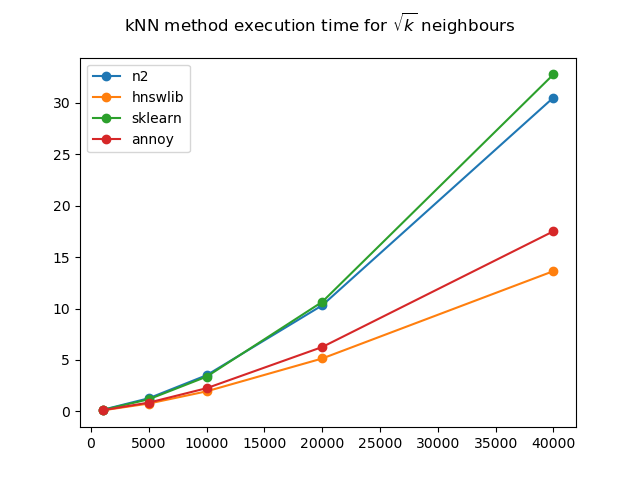
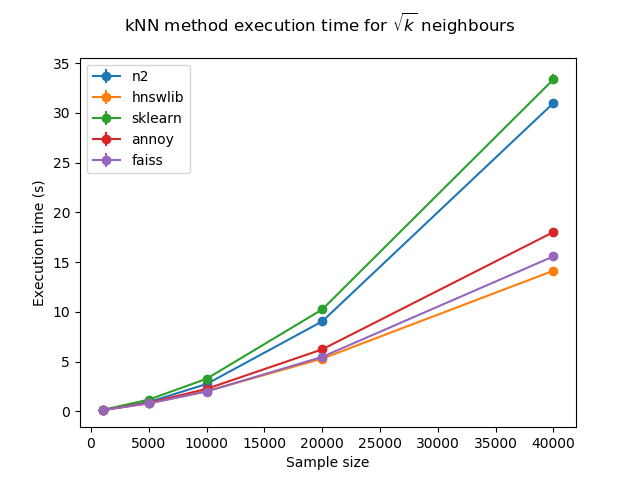
Use average of several runs. Added daal (not working yet)

diff --git a/kNN_test.py b/kNN_test.py
@@ -3,7 +3,7 @@ import math
 import time
 
 from random import choices
-from typing import Dict, List, Optional, Any
+from typing import Dict, List, Tuple, Optional, Any
 from multiprocessing import cpu_count
 
 import numpy as np
@@ -80,47 +80,58 @@ def prepare_file(filename: str, sample_size: int) -> np.ndarray:
     return tokens
 
 
-def benchmark_kNN_methods(matrix: np.ndarray, k: Optional[int]) -> Dict[str, float]:
-    # TODO: several runs and standard deviation
+def benchmark_kNN_methods(matrix: np.ndarray, k: Optional[int], n_runs: int) -> Dict[str, Tuple[float, float]]:
     # TODO: compare kNN results to be close
     methods = knn_methods.method_list
     if k is None:
         k = int(math.sqrt(matrix.shape[0]))
 
-    results = {}
+    results: Dict[str, List[float]] = {}
     for name, method in methods.items():
-        start_time = time.perf_counter()
-        distances = method(matrix, k)
-        results[name] = time.perf_counter() - start_time
+        results[name] = []
+        for i in range(n_runs):
+            start_time = time.perf_counter()
+            distances = method(matrix, k)
+            results[name].append(time.perf_counter() - start_time)
         print(f"{name}: {distances[-5:]}")
 
-    return results
+    avg_results: Dict[str, Tuple[float, float]] = {}
+    for name in results:
+        avg_results[name] = (np.mean(results[name]), np.std(results[name]))
+    return avg_results
 
 
-def plot_benchmark_results_bar(benchmark_times: Dict[str, float], sample_size: int, k: Optional[int]) -> None:
-    # TODO: Axis names
+def plot_benchmark_results_bar(benchmark_times: Dict[str, Tuple[float, float]], sample_size: int, k: Optional[int]) -> None:
     if k is None:
         k = int(math.sqrt(sample_size))
     plt.figure()
-    plt.bar(benchmark_times.keys(), benchmark_times.values())
+    means = [value[0] for value in benchmark_times.values()]
+    plt.bar(benchmark_times.keys(), means)
+    plt.ylabel("Execution time")
     plt.suptitle(f"kNN method execution time for {sample_size} samples, {k} neighbours")
     plt.savefig(f"./img/kNN_benchmark_{sample_size}_samples_{k}_neighbours.png")
 
 
-def plot_benchmark_results(results: Dict[int, Dict[str, float]], k: Optional[int]) -> None:
-    # TODO: Axis names
+def plot_benchmark_results(results: Dict[int, Dict[str, Tuple[float, float]]], k: Optional[int]) -> None:
     plt.figure()
     sample_sizes = list(results.keys())
-    benchmark_times: Dict[str, List] = dict(zip(
+    benchmark_times: Dict[str, List[float]] = dict(zip(
+        list(results.values())[0],
+        (list() for i in range(len(results)))
+    ))
+    benchmark_std: Dict[str, List[float]] = dict(zip(
         list(results.values())[0],
         (list() for i in range(len(results)))
     ))
     for method_results in results.values():
         for method, elapsed_time in method_results.items():
-            benchmark_times[method].append(elapsed_time)
+            benchmark_times[method].append(elapsed_time[0])
+            benchmark_std[method].append(elapsed_time[1])
     for method, times in benchmark_times.items():
-        plt.plot(sample_sizes, times, "-o", label=method)
+        plt.errorbar(sample_sizes, times, yerr=benchmark_std[method], fmt="-o", label=method)
 
+    plt.xlabel("Sample size")
+    plt.ylabel("Execution time (s)")
     plt.legend()
     if k is None:
         plt.suptitle(r"kNN method execution time for $\sqrt{k}$ neighbours")
@@ -130,11 +141,11 @@ def plot_benchmark_results(results: Dict[int, Dict[str, float]], k: Optional[int
         plt.savefig(f"./img/kNN_benchmarks_{k}_neighbours.png")
 
 
-def run_benchmarks(filename: str, sample_sizes: List[int], k: Optional[int] = None) -> Dict[int, Dict[str, float]]:
+def run_benchmarks(filename: str, sample_sizes: List[int], k: Optional[int] = None, n_runs: int = 1) -> Dict[int, Dict[str, Tuple[float, float]]]:
     results = {}
     for sample_size in sample_sizes:
         data = prepare_file(filename, sample_size)
-        benchmark_times = benchmark_kNN_methods(data, k=k)
+        benchmark_times = benchmark_kNN_methods(data, k=k, n_runs=n_runs)
         results[sample_size] = benchmark_times
         plot_benchmark_results_bar(benchmark_times, sample_size, k)
     plot_benchmark_results(results, k)
@@ -142,8 +153,8 @@ def run_benchmarks(filename: str, sample_sizes: List[int], k: Optional[int] = No
 
 
 if __name__ == "__main__":
-    results = run_benchmarks("../datasets/error_logs_test.csv", [1000, 5000, 10000, 20000, 40000], k=None)
+    results = run_benchmarks("../datasets/error_logs_test.csv", [1000, 5000, 10000, 20000, 40000], k=None, n_runs=5)
     for sample_size, benchmark_times in results.items():
         print(f"{sample_size} samples:")
         for algo_name, algo_time in benchmark_times.items():
-            print(f"\t{algo_name}: {algo_time:.4} s")
+            print(f"\t{algo_name}: {algo_time[0]:.4} ± {algo_time[1]:.4} s")

diff --git a/knn_methods/n2_knn.py b/knn_methods/n2_knn.py
@@ -1,5 +1,4 @@
 import numpy as np
-from statistics import mean
 from multiprocessing import cpu_count
 from n2 import HnswIndex
 from typing import List
@@ -14,5 +13,5 @@ def kNN(matrix: np.ndarray, k: int) -> List[float]:
     result = []
     for i in range(0, matrix.shape[0]):
         results = index.search_by_id(i, k, include_distances=True)
-        result.append(mean(np.sqrt(np.array([dist for _, dist in results]))))
+        result.append(np.mean(np.sqrt(np.array([dist for _, dist in results]))))
     return np.sort(result)

diff --git a/knn_methods/daal_knn.py b/knn_methods/daal_knn.py
@@ -1,0 +1,15 @@
+import numpy as np
+import daal4py as d4p
+from statistics import mean
+from typing import List
+
+
+def kNN(matrix: np.ndarray, k: int) -> List[float]:
+    training = d4p.kdtree_knn_classification_training(k=k)
+    training = training.compute(matrix)
+    prediction = d4p.kdtree_knn_classification_prediction()
+    prediction = prediction.compute(matrix, training.model)
+    distances = prediction.prediction
+    print(distances)
+    result = np.sort(list(mean(dist) for dist in distances))
+    return result

diff --git a/knn_methods/__init__.py b/knn_methods/__init__.py
@@ -2,12 +2,14 @@ from . import n2_knn
 from . import hnswlib_knn
 from . import sklearn_knn
 from . import annoy_knn
-# from . import faiss_knn
+# from . import daal_knn
+from . import faiss_knn
 
 method_list = {
     "n2": n2_knn.kNN,
     "hnswlib": hnswlib_knn.kNN,
     "sklearn": sklearn_knn.kNN,
     "annoy": annoy_knn.kNN,
-    # "faiss": faiss_knn.kNN  # ! Only works in conda at the moment. Results between annoy and hnswlib
+    "faiss": faiss_knn.kNN,
+    # "daal": daal_knn.kNN,  # ! Not working yet
 }
